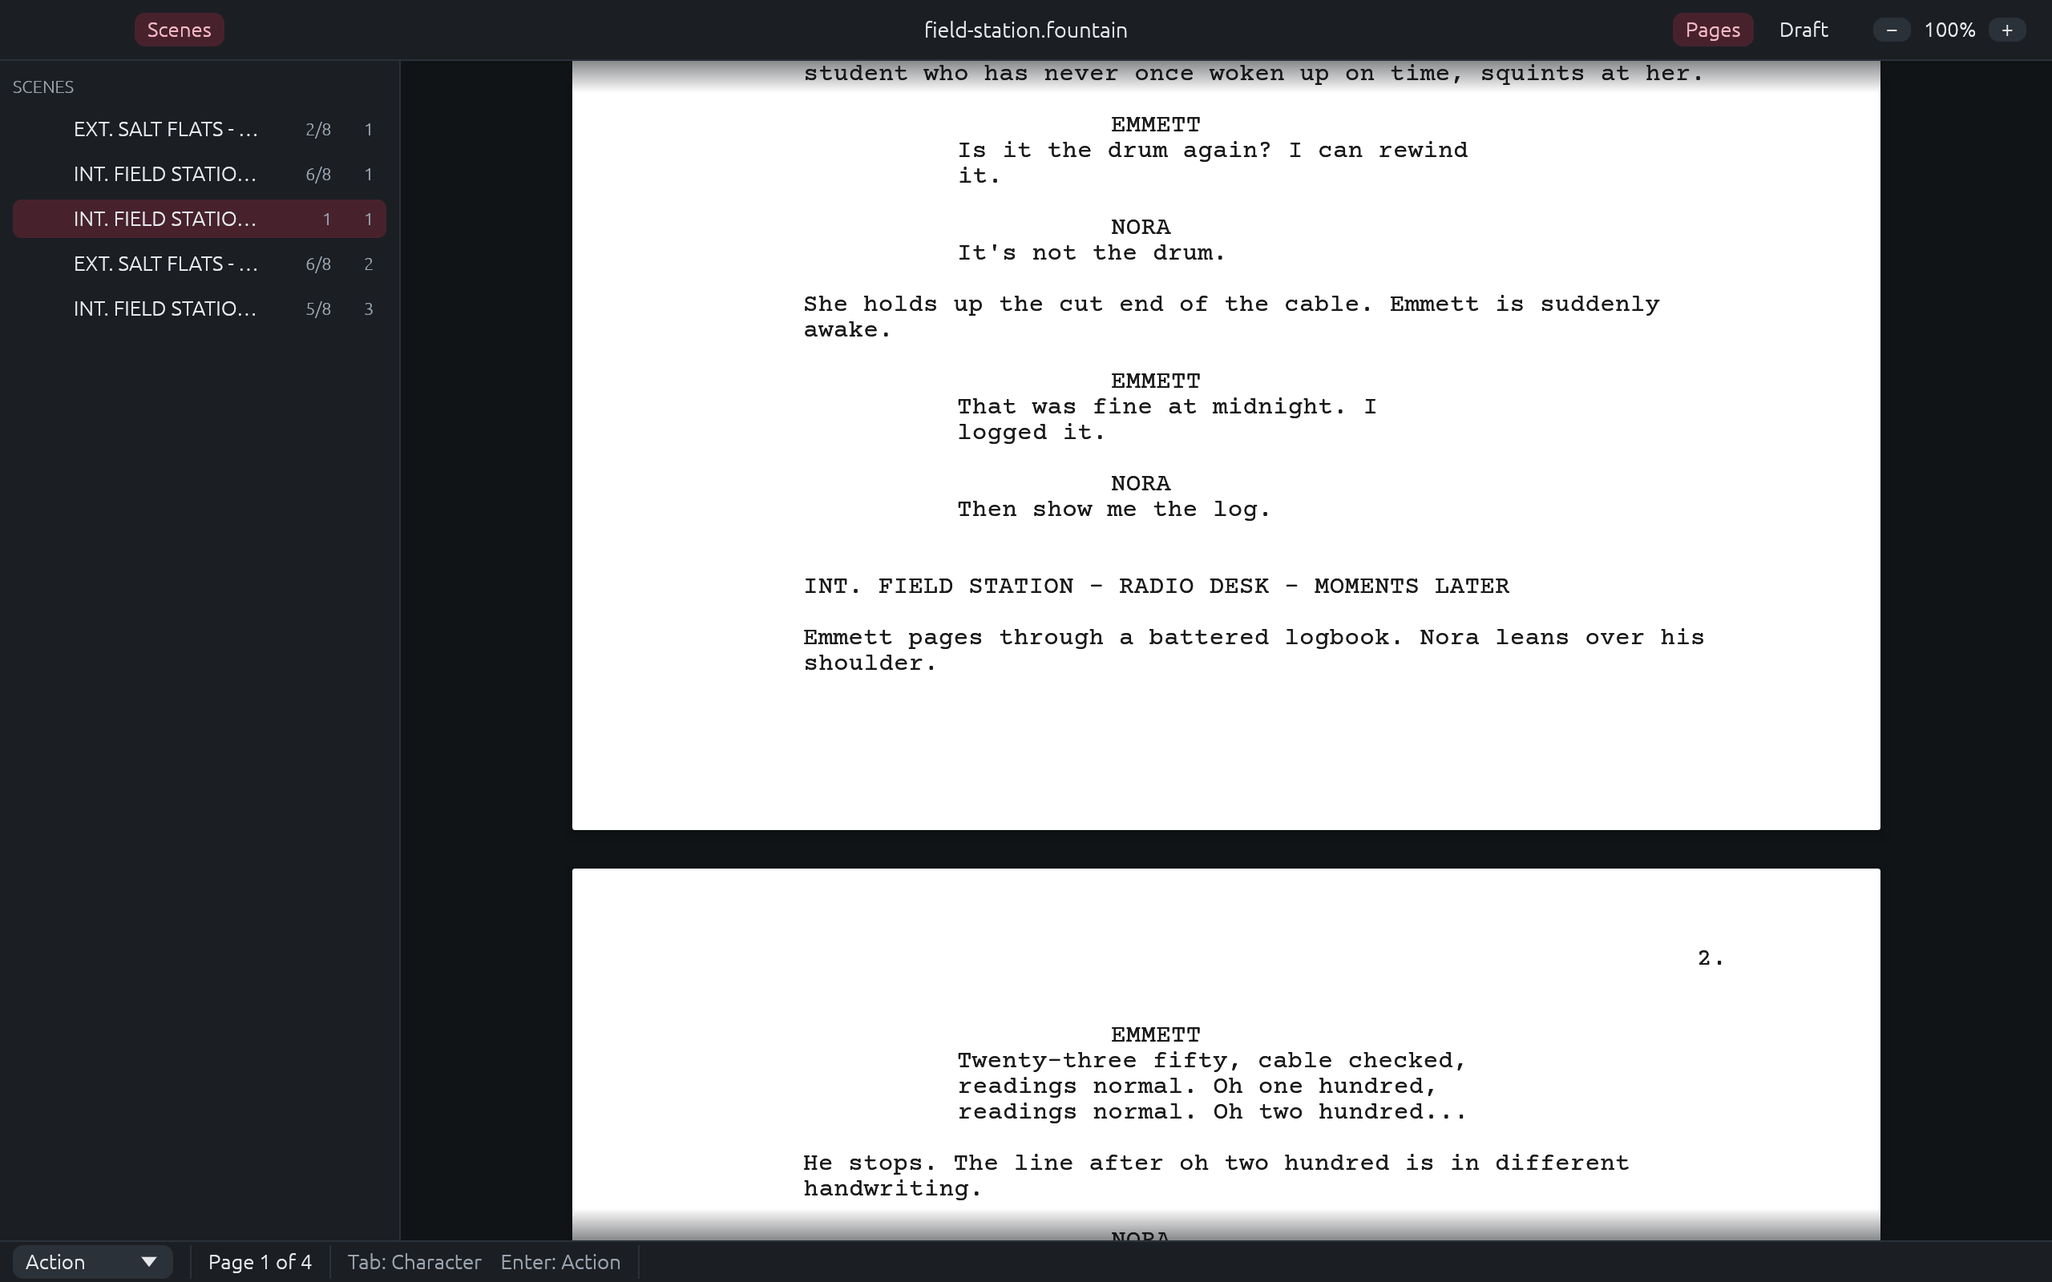
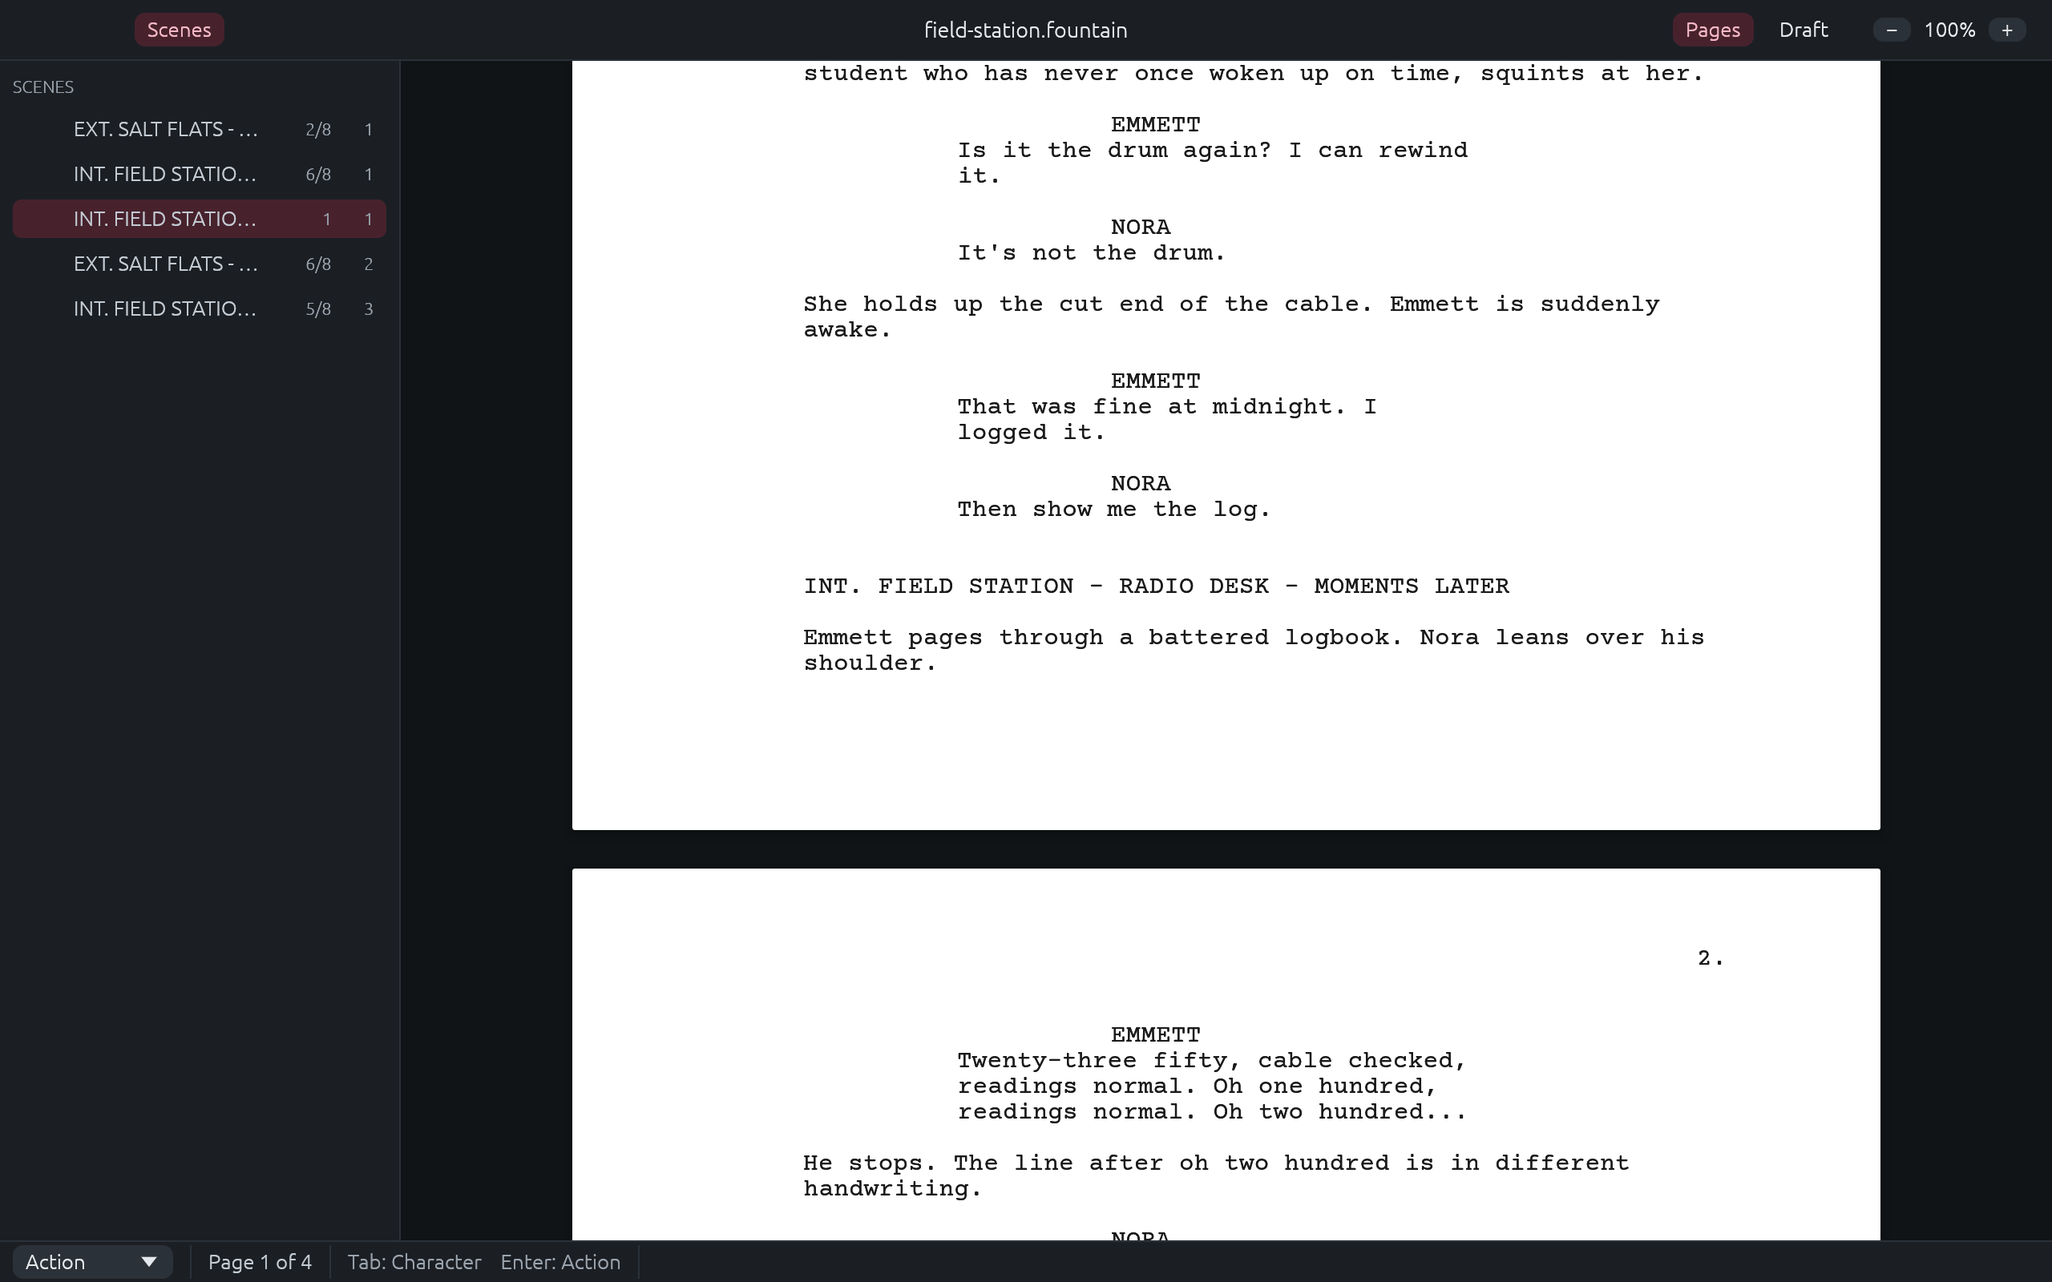
Design: dark mode checked surface by surface
The page keeps the light accent for its caret and selection in both
themes (it was egui's default blue, and a dark-theme wash would sit on
white paper), and drops the scroll fade that drew a dark smudge across
it. Dialogs and Help windows open in the middle of the app's window;
the Save changes? question gets a window's margin and corners. Labels
take ink-soft so strong text and headings stand out. A new ignored test,
gallery, draws every surface in light and dark into target/gallery;
BRAND.md records what was checked on each.

Changed region(s): [[0.2812, 0.0312, 0.9375, 0.0938], [0.2812, 0.9375, 0.9375, 0.9688]]

diff --git a/crates/app/src/help.rs b/crates/app/src/help.rs
@@ -189,7 +189,11 @@ impl HelpWindows {
 
     fn about_window(&self, ctx: &egui::Context, automation: &mut Automation, action: &mut Option<HelpAction>) -> bool {
         let mut open = true;
-        egui::Window::new(format!("About {APP_NAME}")).id(egui::Id::new("storyteller.about")).collapsible(false).resizable(false).show(ctx, |ui| {
+        crate::theme::centered(
+            egui::Window::new(format!("About {APP_NAME}")).id(egui::Id::new("storyteller.about")).collapsible(false).resizable(false),
+            ctx,
+        )
+        .show(ctx, |ui| {
             ui.vertical_centered(|ui| {
                 ui.add_space(crate::theme::SPACE_1);
                 ui.heading(APP_NAME);
@@ -236,7 +240,11 @@ fn close_button(ui: &mut egui::Ui, automation: &mut Automation, window: &str) ->
 
 fn shortcuts_window(ctx: &egui::Context, automation: &mut Automation, rows: &[ShortcutRow]) -> bool {
     let mut open = true;
-    egui::Window::new("Keyboard Shortcuts").id(egui::Id::new("storyteller.shortcuts")).collapsible(false).default_height(640.0).show(ctx, |ui| {
+    crate::theme::centered(
+        egui::Window::new("Keyboard Shortcuts").id(egui::Id::new("storyteller.shortcuts")).collapsible(false).default_height(640.0),
+        ctx,
+    )
+    .show(ctx, |ui| {
         egui::ScrollArea::vertical().max_height(620.0).show(ui, |ui| {
             let mut group = "";
             egui::Grid::new("storyteller.shortcut_grid").num_columns(2).spacing([24.0, 4.0]).striped(true).show(ui, |ui| {
@@ -299,49 +307,51 @@ fn markdown(ui: &mut egui::Ui, text: &str) {
 
 fn whats_new_window(ctx: &egui::Context, automation: &mut Automation) -> bool {
     let mut open = true;
-    egui::Window::new("What's New").id(egui::Id::new("storyteller.whats_new")).collapsible(false).default_width(460.0).show(ctx, |ui| {
-        ui.heading(format!("{APP_NAME} {VERSION}"));
-        egui::ScrollArea::vertical().max_height(420.0).show(ui, |ui| match release_notes(CHANGELOG, VERSION) {
-            Some(notes) => markdown(ui, notes),
-            None => {
-                ui.label("No notes for this version.");
+    crate::theme::centered(egui::Window::new("What's New").id(egui::Id::new("storyteller.whats_new")).collapsible(false).default_width(460.0), ctx)
+        .show(ctx, |ui| {
+            ui.heading(format!("{APP_NAME} {VERSION}"));
+            egui::ScrollArea::vertical().max_height(420.0).show(ui, |ui| match release_notes(CHANGELOG, VERSION) {
+                Some(notes) => markdown(ui, notes),
+                None => {
+                    ui.label("No notes for this version.");
+                }
+            });
+            ui.add_space(crate::theme::SPACE_2);
+            if close_button(ui, automation, "whats_new") {
+                open = false;
             }
         });
-        ui.add_space(crate::theme::SPACE_2);
-        if close_button(ui, automation, "whats_new") {
-            open = false;
-        }
-    });
     open
 }
 
 fn licenses_window(ctx: &egui::Context, automation: &mut Automation, tab: usize) -> Option<usize> {
     let mut chosen = tab;
     let mut open = true;
-    egui::Window::new("Licenses and Notices").id(egui::Id::new("storyteller.licenses")).collapsible(false).default_size([760.0, 520.0]).show(
+    crate::theme::centered(
+        egui::Window::new("Licenses and Notices").id(egui::Id::new("storyteller.licenses")).collapsible(false).default_size([760.0, 520.0]),
         ctx,
-        |ui| {
-            ui.horizontal_wrapped(|ui| {
-                for (n, (name, _)) in NOTICES.iter().enumerate() {
-                    let response = ui.selectable_label(n == chosen, *name);
-                    automation.add(format!("dialog.licenses.tab.{n}"), "tab", *name, &response);
-                    if response.clicked() {
-                        chosen = n;
-                    }
+    )
+    .show(ctx, |ui| {
+        ui.horizontal_wrapped(|ui| {
+            for (n, (name, _)) in NOTICES.iter().enumerate() {
+                let response = ui.selectable_label(n == chosen, *name);
+                automation.add(format!("dialog.licenses.tab.{n}"), "tab", *name, &response);
+                if response.clicked() {
+                    chosen = n;
                 }
-            });
-            ui.separator();
-            let text = NOTICES.get(chosen).map_or("", |(_, text)| text);
-            egui::ScrollArea::both().max_height(440.0).auto_shrink([false, true]).show(ui, |ui| {
-                // The files are wrapped already; wrapping again would break their lines.
-                ui.add(egui::Label::new(egui::RichText::new(text).monospace().size(crate::theme::TYPE_SMALL)).extend());
-            });
-            ui.add_space(crate::theme::SPACE_2);
-            if close_button(ui, automation, "licenses") {
-                open = false;
             }
-        },
-    );
+        });
+        ui.separator();
+        let text = NOTICES.get(chosen).map_or("", |(_, text)| text);
+        egui::ScrollArea::both().max_height(440.0).auto_shrink([false, true]).show(ui, |ui| {
+            // The files are wrapped already; wrapping again would break their lines.
+            ui.add(egui::Label::new(egui::RichText::new(text).monospace().size(crate::theme::TYPE_SMALL)).extend());
+        });
+        ui.add_space(crate::theme::SPACE_2);
+        if close_button(ui, automation, "licenses") {
+            open = false;
+        }
+    });
     open.then_some(chosen)
 }
 

diff --git a/crates/app/src/theme.rs b/crates/app/src/theme.rs
@@ -22,8 +22,7 @@ pub struct Palette {
     pub control_hover: Color32,
     /// Text.
     pub ink: Color32,
-    /// Secondary text.
-    #[allow(dead_code, reason = "a family token; the empty and error states use it")]
+    /// Labels and other running text in the interface; `ink` is kept for what stands out.
     pub ink_soft: Color32,
     /// Captions, hints, counts.
     pub muted: Color32,
@@ -101,6 +100,8 @@ pub const PAGE_MUTED: Color32 = rgb(0x707070);
 pub const PAGE_RULE: Color32 = rgb(0xC4C4C4);
 /// A find match on the page: the accent as a light wash.
 pub const FIND_MARK: Color32 = rgb(0xEBBCC8);
+/// Selected text on the page: a lighter wash, so a find match inside it still shows.
+pub const PAGE_SELECTION: Color32 = rgb(0xF5D9E0);
 
 // The type scale, in points. The interface uses the system's own faces; the script is
 // Courier Prime at 12 pt, set by the editor.
@@ -129,6 +130,27 @@ pub const NAV_ROW_HEIGHT: f32 = 24.0;
 pub const RADIUS_CONTROL: u8 = 6;
 pub const RADIUS_MENU: u8 = 8;
 pub const RADIUS_WINDOW: u8 = 10;
+
+/// How the page draws its text boxes, in both themes: white paper, the light accent for the
+/// caret and the selection, no box around a field.
+pub fn page_visuals() -> egui::Visuals {
+    let mut visuals = egui::Visuals::light();
+    visuals.selection.bg_fill = PAGE_SELECTION;
+    visuals.selection.stroke = Stroke::new(1.0, LIGHT.accent_strong);
+    visuals.text_cursor.stroke = Stroke::new(2.0, LIGHT.accent);
+    visuals.hyperlink_color = LIGHT.accent;
+    visuals
+}
+
+/// A window that opens in the middle of the app's window, as a dialog should.
+pub fn centered<'a>(window: egui::Window<'a>, ctx: &egui::Context) -> egui::Window<'a> {
+    window.pivot(egui::Align2::CENTER_CENTER).default_pos(ctx.content_rect().center())
+}
+
+/// The frame for a modal question: a window's fill, corners and margin.
+pub fn modal_frame(style: &egui::Style) -> egui::Frame {
+    egui::Frame::popup(style).inner_margin(SPACE_4).corner_radius(CornerRadius::same(RADIUS_WINDOW))
+}
 
 const fn rgb(hex: u32) -> Color32 {
     Color32::from_rgb((hex >> 16) as u8, (hex >> 8) as u8, hex as u8)
@@ -173,7 +195,7 @@ pub fn apply(ctx: &egui::Context) {
             widgets.noninteractive.bg_fill = p.panel;
             widgets.noninteractive.weak_bg_fill = p.panel;
             widgets.noninteractive.bg_stroke = Stroke::new(1.0, p.rule);
-            widgets.noninteractive.fg_stroke = Stroke::new(1.0, p.ink);
+            widgets.noninteractive.fg_stroke = Stroke::new(1.0, p.ink_soft);
             for (widget, fill) in
                 [(&mut widgets.inactive, p.control), (&mut widgets.hovered, p.control_hover), (&mut widgets.active, p.control_hover)]
             {
@@ -248,9 +270,14 @@ mod tests {
                 }
             }
         }
-        for (pair, fg, bg) in
-            [("page ink on page", PAGE_INK, PAGE), ("page muted on page", PAGE_MUTED, PAGE), ("page ink on find mark", PAGE_INK, FIND_MARK)]
-        {
+        for (pair, fg, bg) in [
+            ("page ink on page", PAGE_INK, PAGE),
+            ("page muted on page", PAGE_MUTED, PAGE),
+            ("page ink on find mark", PAGE_INK, FIND_MARK),
+            ("page ink on selection", PAGE_INK, PAGE_SELECTION),
+            ("accent on page", LIGHT.accent, PAGE),
+            ("selected text on selection", LIGHT.accent_strong, PAGE_SELECTION),
+        ] {
             let ratio = contrast(fg, bg);
             if ratio < 4.5 {
                 failures.push(format!("{pair}: {ratio:.2}, needs 4.5"));
@@ -265,9 +292,14 @@ mod tests {
         for ((pair, fg, bg, needs), (_, dfg, dbg, _)) in pairs(&LIGHT).into_iter().zip(pairs(&DARK)) {
             println!("| {pair} | {:.2} | {:.2} | {needs} |", contrast(fg, bg), contrast(dfg, dbg));
         }
-        for (pair, fg, bg) in
-            [("page ink on page", PAGE_INK, PAGE), ("page muted on page", PAGE_MUTED, PAGE), ("page ink on find mark", PAGE_INK, FIND_MARK)]
-        {
+        for (pair, fg, bg) in [
+            ("page ink on page", PAGE_INK, PAGE),
+            ("page muted on page", PAGE_MUTED, PAGE),
+            ("page ink on find mark", PAGE_INK, FIND_MARK),
+            ("page ink on selection", PAGE_INK, PAGE_SELECTION),
+            ("accent on page", LIGHT.accent, PAGE),
+            ("selected text on selection", LIGHT.accent_strong, PAGE_SELECTION),
+        ] {
             println!("| {pair} | {:.2} | {:.2} | 4.5 |", contrast(fg, bg), contrast(fg, bg));
         }
     }

diff --git a/crates/app/src/screens.rs b/crates/app/src/screens.rs
@@ -97,3 +97,77 @@ fn write_png(path: &Path, width: u32, height: u32, rgba: &[u8]) -> Result<(), St
     }
     std::fs::write(path, out).map_err(|e| e.to_string())
 }
+
+/// Every surface in light and dark, for the design pass: the dialogs, the Help windows, the
+/// find bar and a selection on the page. Written to `STORYTELLER_GALLERY_OUT` (default
+/// `target/gallery`); nothing is committed. Run with
+/// `cargo test -p method-storyteller --release gallery -- --ignored`.
+#[test]
+#[ignore = "pictures for the design pass"]
+fn gallery() {
+    let root = Path::new(env!("CARGO_MANIFEST_DIR")).join("../..");
+    let out = var("STORYTELLER_GALLERY_OUT").unwrap_or_else(|| root.join("target/gallery"));
+    if let Err(error) = std::fs::create_dir_all(&out) {
+        panic!("{}: {error}", out.display());
+    }
+    let script = root.join("examples/field-station.fountain");
+    let states: [(&str, &[&str]); 9] = [
+        ("find", &["app.find"]),
+        ("go-to", &["app.go_to"]),
+        ("rename", &["app.rename_character"]),
+        ("title-page", &["app.title_page"]),
+        ("about", &["help.about"]),
+        ("shortcuts", &["help.shortcuts"]),
+        ("whats-new", &["help.whats_new"]),
+        ("unsaved", &[]),
+        ("selection", &[]),
+    ];
+    for theme in [egui::Theme::Light, egui::Theme::Dark] {
+        let suffix = if theme == egui::Theme::Dark { "dark" } else { "light" };
+        for (name, commands) in states {
+            let mut harness = Harness::builder()
+                .with_size(SIZE)
+                .with_pixels_per_point(PIXELS_PER_POINT)
+                .with_theme(theme)
+                .with_max_steps(64)
+                .build_eframe(|cc| StorytellerApp::without_menu(cc, Some(script.clone()), None, craft_settings::Location::Memory));
+            for each in [egui::Theme::Light, egui::Theme::Dark] {
+                harness.ctx.style_mut_of(each, |style| style.visuals.text_cursor.blink = false);
+            }
+            harness.state_mut().status.clear();
+            harness.run_steps(4);
+            harness.state_mut().editor.pending_focus = Some((6, 0));
+            harness.run_steps(6);
+            for command in commands {
+                harness.state_mut().queued.push((*command).into());
+            }
+            match name {
+                "find" => {
+                    harness.run_steps(3);
+                    if let Some(bar) = harness.state_mut().find.as_mut() {
+                        bar.text = "drum".into();
+                    }
+                }
+                "unsaved" => {
+                    harness.state_mut().session.dirty = true;
+                    harness.state_mut().prompt = Some(super::Pending::Close);
+                }
+                "selection" => {
+                    harness.run_steps(2);
+                    harness.key_press_modifiers(egui::Modifiers::SHIFT, egui::Key::End);
+                }
+                _ => {}
+            }
+            harness.run_steps(12);
+            let image = match harness.render() {
+                Ok(image) => image,
+                Err(error) => panic!("rendering {name}: {error}"),
+            };
+            let path = out.join(format!("{name}-{suffix}.png"));
+            if let Err(error) = write_png(&path, image.width(), image.height(), &image.into_raw()) {
+                panic!("{}: {error}", path.display());
+            }
+            println!("  {}", path.display());
+        }
+    }
+}

diff --git a/crates/app/src/app.rs b/crates/app/src/app.rs
@@ -1050,7 +1050,7 @@ impl StorytellerApp {
     fn title_page_dialog(&mut self, ctx: &egui::Context) {
         let Some(draft) = &mut self.title_dialog else { return };
         let mut done = None;
-        egui::Window::new("Title Page").collapsible(false).resizable(false).show(ctx, |ui| {
+        theme::centered(egui::Window::new("Title Page").collapsible(false).resizable(false), ctx).show(ctx, |ui| {
             egui::Grid::new("storyteller.title_grid").num_columns(2).spacing([12.0, 6.0]).show(ui, |ui| {
                 for (key, value) in &mut draft.fields {
                     ui.label(key.as_str());
@@ -1252,7 +1252,7 @@ impl StorytellerApp {
             return;
         }
         let mut answer = None;
-        egui::Modal::new(egui::Id::new("storyteller.unsaved")).show(ctx, |ui| {
+        egui::Modal::new(egui::Id::new("storyteller.unsaved")).frame(theme::modal_frame(&ctx.global_style())).show(ctx, |ui| {
             ui.heading("Save changes?");
             ui.label(format!("“{}” has changes that are not saved.", self.session.title().trim_end_matches(" — edited")));
             ui.add_space(theme::SPACE_2);

diff --git a/crates/app/src/editor.rs b/crates/app/src/editor.rs
@@ -175,6 +175,8 @@ pub fn show(ui: &mut Ui, session: &mut Session, editor: &mut EditorState, automa
     }
     editor.focused = None;
 
+    // No fade at the scroll edges: on the desk it reads as a smudge across the white page.
+    ui.spacing_mut().scroll.fade.strength = 0.0;
     egui::ScrollArea::vertical().auto_shrink([false, false]).show(ui, |ui| {
         let side = ((ui.available_width() - page_width) / 2.0).max(8.0);
         ui.add_space(row * 1.5);
@@ -190,7 +192,7 @@ pub fn show(ui: &mut Ui, session: &mut Session, editor: &mut EditorState, automa
                     let mut sheets: Vec<(f32, f32, u32)> = Vec::new();
                     let mut sheet_page = 1u32;
                     ui.add_space(top_margin);
-                    *ui.visuals_mut() = egui::Visuals::light();
+                    *ui.visuals_mut() = crate::theme::page_visuals();
                     ui.spacing_mut().item_spacing = vec2(0.0, 0.0);
                     // A text box is exactly one script line tall, at any zoom.
                     ui.spacing_mut().interact_size.y = row;

diff --git a/docs/BRAND.md b/docs/BRAND.md
@@ -113,6 +113,7 @@ The page is the same in both themes, white with black type, as a printed script 
 | page-muted | `#707070` | Page and scene numbers, an empty line's element name |
 | page-rule | `#C4C4C4` | The dashed rule at a page end in the draft view (decorative) |
 | find-mark | `#EBBCC8` | A find match: the accent as a light wash |
+| page-selection | `#F5D9E0` | Selected text: a lighter wash, so a find match inside it shows |
 
 ### Contrast (WCAG 2.x)
 
@@ -144,6 +145,26 @@ Body text needs 4.5:1 (AA); borders that carry meaning need 3:1. The test
 | page ink on page | 17.40 | 17.40 | 4.5 |
 | page muted on page | 4.95 | 4.95 | 4.5 |
 | page ink on find mark | 10.41 | 10.41 | 4.5 |
+| page ink on selection | 13.16 | 13.16 | 4.5 |
+| accent on page | 5.83 | 5.83 | 4.5 |
+| selected text on selection | 6.10 | 6.10 | 4.5 |
+
+### Dark mode, surface by surface
+
+The app follows the system's light or dark setting. Each surface was checked in both, in the
+offscreen gallery (`cargo test -p method-storyteller --release gallery -- --ignored` writes
+`target/gallery/<surface>-<theme>.png`):
+
+| Surface | Dark mode |
+|---|---|
+| Desk | The family's darkest surface, so the white page stands out without a glow |
+| Page | White paper and black type in both themes; no scroll fade across it (it read as a smudge) |
+| Caret and selection on the page | The light accent in both themes (page-selection `#F5D9E0`, caret `#AE3D56`), never the dark-theme wash |
+| Top bar, navigator, status bar | panel; the current scene in accent-soft with ink |
+| Find bar | panel; the fields in field, a match on the page in find-mark |
+| Dialogs and Help windows | window, opened in the middle of the app's window |
+| Save changes? | window with a 16-point margin, over a dimmed app |
+| Menus, popups, tooltips | window |
 
 ## Type
 
